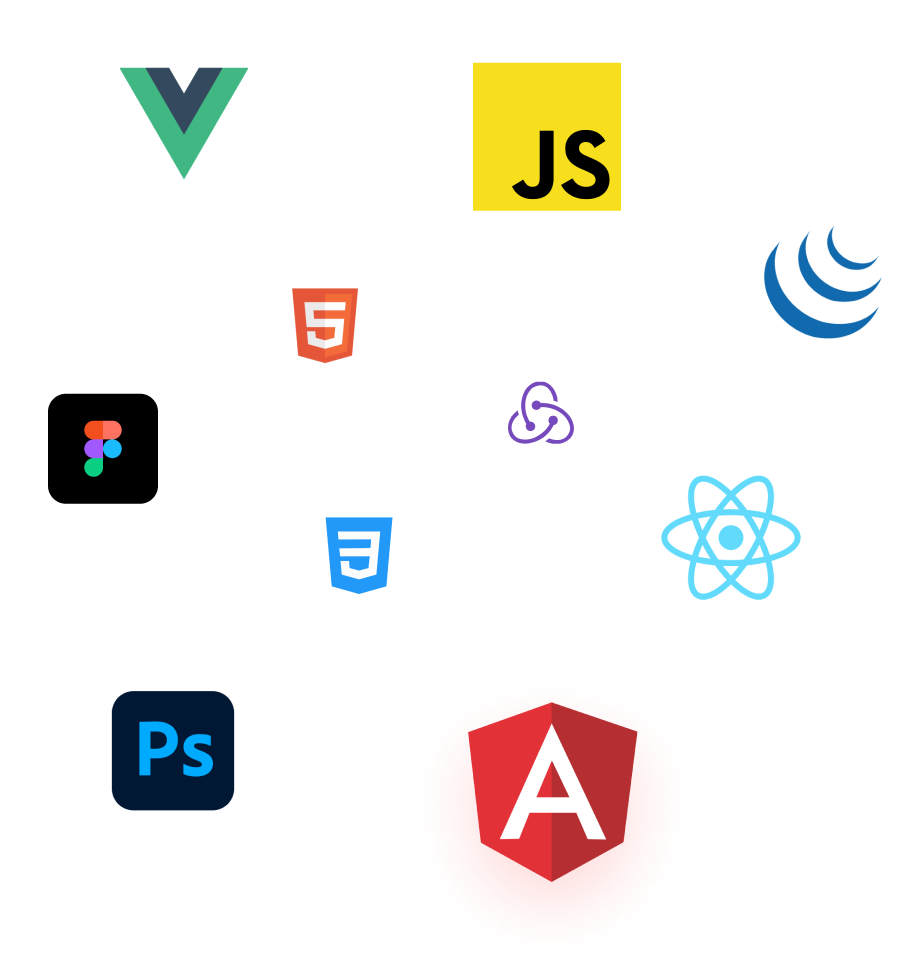
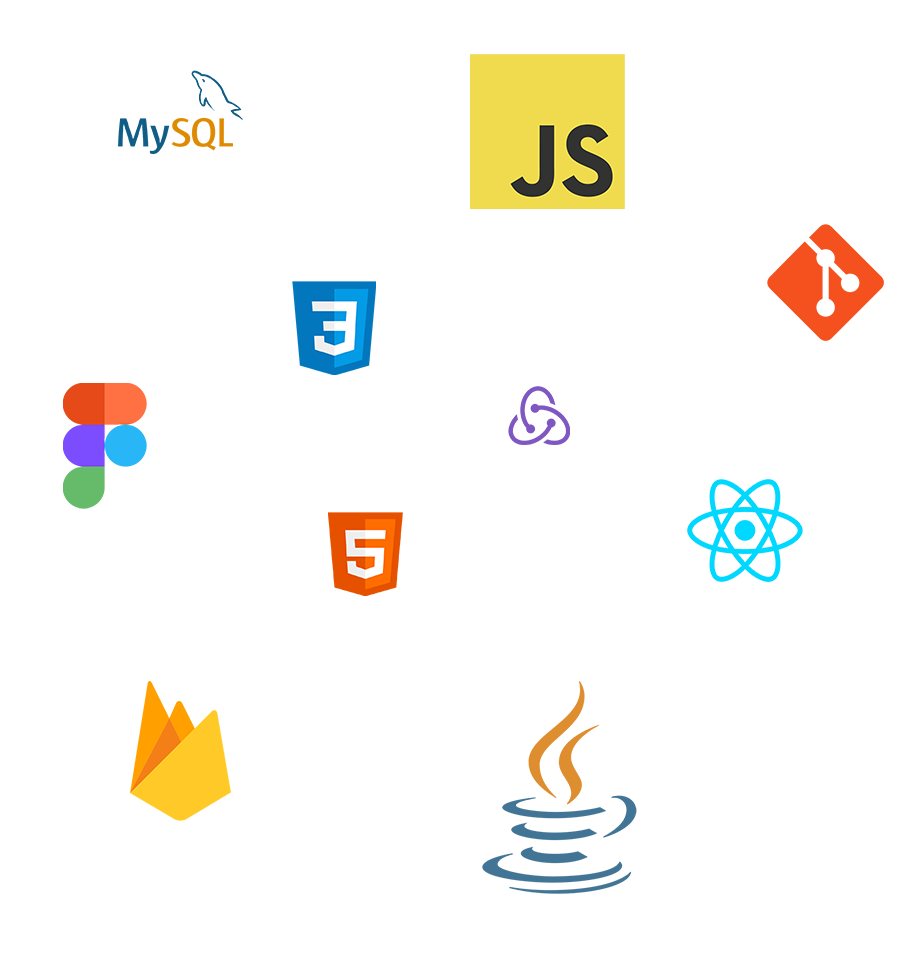
updated skills section

diff --git a/src/components/skills/Skills.jsx b/src/components/skills/Skills.jsx
@@ -15,11 +15,19 @@ const Skills = () => {
         <div className="right-col">
           <h2>Skills</h2>
           <p>
-            Lorem ipsum dolor sit amet consectetur adipisicing elit. Quas,
-            nostrum minima? Reiciendis sequi sint quas nemo itaque! Doloremque
-            consectetur nostrum laborum facilis saepe! Earum molestias
-            consectetur eligendi unde ipsa esse porro. Deserunt quis excepturi
-            ipsum ab aliquam? Perspiciatis, minus at?
+            With a dynamic skill set spanning Java, JavaScript, HTML, CSS,
+            React, and React Native, I'm adept at crafting interactive and
+            visually appealing web and mobile applications. Proficient in
+            database management, I utilize MySQL and Firebase to efficiently
+            store and retrieve data. My command of Linux empowers me to navigate
+            diverse development environments seamlessly. Git proficiency ensures
+            collaborative and organized version control. Passionate about
+            innovation, I consistently blend creativity and technical prowess to
+            produce exceptional user experiences.
+          </p>
+          <p>
+            <u>Skills Summary:</u> Java, JavaScript, HTML/CSS,
+            React/React-Native, MySQL/Firebase, Linux, Git
           </p>
           <CallToAction
             text="Download Resume"

diff --git a/src/components/portfolio/Portfolio.jsx b/src/components/portfolio/Portfolio.jsx
@@ -8,7 +8,11 @@ import './style.scss';
 
 const Portfolio = () => {
   return (
-    <Section id="blogs" title="Checkout My Portfolio" background="dark">
+    <Section
+      id="portfolio"
+      title="Check out My Portfolio Some Major Projects"
+      background="dark"
+    >
       <div className="blogs-content-wrapper">
         <PortfolioCard
           user="Chandan Kumar"

diff --git a/src/components/contact/form/Form.jsx b/src/components/contact/form/Form.jsx
@@ -70,7 +70,7 @@ const Form = () => {
             {...register('phone_number', {
               required: 'Phone number is required',
               minLength: {
-                value: 8,
+                value: 10,
                 message: 'Phone number is not valid',
               },
             })}

diff --git a/src/components/contact/form/style.scss b/src/components/contact/form/style.scss
@@ -60,7 +60,7 @@
       }
     }
 
-    .error {
+    .errors {
       color: $white;
       @include typography(12px, 400, 24px);
     }
